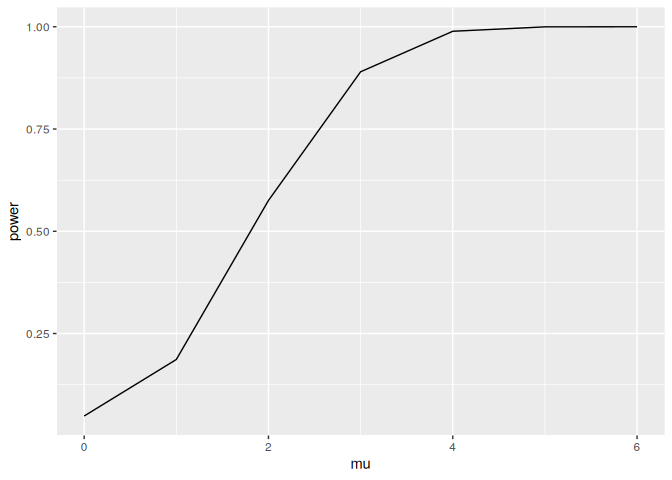
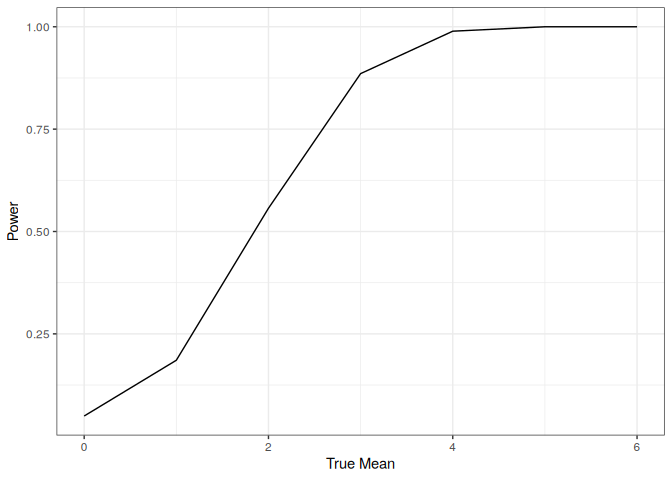
Add descriptions of figures

diff --git a/p8105_hw5_jrc2270.md b/p8105_hw5_jrc2270.md
@@ -56,6 +56,12 @@ prop_unslv_homocides %>%
 
 ## Problem 2
 
+In this longitudinal data, the group receiving the experimental
+treatment seems to have increasing values over the study period, while
+the group control group has values that stay fairly constant. By week 8,
+there is a clear difference between the experimental group and the
+control group.
+
 ``` r
 long <- 
   list.files("data") %>%
@@ -78,6 +84,10 @@ long %>%
 
 ## Problem 3
 
+By running 5000 t-tests each on samples from populations with different
+means, we can see that as effect size increases, power quickly
+approaches 100%.
+
 ``` r
 rnorm_5000 <- function(mu) {
   n = 30
@@ -98,40 +108,28 @@ power_by_mean_df %>%
   group_by(mu) %>%
   summarise(power = sum(p.value <= 0.05)/n()) %>%
   ggplot(mapping = aes(x = mu, y = power)) +
-  geom_line()
+  geom_line() +
+  labs(x = "True Mean", y = "Power") +
+  theme_bw()
 ```
 
 ![](p8105_hw5_jrc2270_files/figure-gfm/unnamed-chunk-3-1.png)<!-- -->
 
+The mean estimate across samples is, of course, similar to the true
+mean. For the samples where the null hypothesis was rejected, the mean
+estimate is close to the true mean for samples with a large effect size
+and for the sample under the null hypothesis. However, the mean estimate
+is slightly higher than the true mean for samples with a small effect
+size. This is because samples with estimates close to the null
+hypothesis have large p-values.
+
 ``` r
 power_by_mean_df %>%
   group_by(mu) %>%
   summarise(avg_mu_hat = mean(estimate)) %>%
   ggplot(mapping = aes(x = mu, y = avg_mu_hat)) +
-  geom_point()
-```
-
-![](p8105_hw5_jrc2270_files/figure-gfm/unnamed-chunk-3-2.png)<!-- -->
-
-``` r
-power_by_mean_df %>%
-  filter(p.value <= 0.5) %>%
-  group_by(mu) %>%
-  summarise(avg_mu_hat = mean(estimate)) %>%
-  ggplot(mapping = aes(x = mu, y = avg_mu_hat)) +
-  geom_point()
-```
-
-![](p8105_hw5_jrc2270_files/figure-gfm/unnamed-chunk-3-3.png)<!-- -->
-
-``` r
-power_by_mean_df %>%
-  group_by(mu) %>%
-  ggplot(mapping = aes(x = as.factor(mu), y = estimate)) +
-  geom_violin() +
-  scale_y_continuous(breaks = seq(floor(min(power_by_mean_df$estimate)),
-                                  ceiling(max(power_by_mean_df$estimate))),
-                     minor_breaks = NULL) +
+  geom_point() +
+  labs(x = "True Mean", y = "Average Estimate") +
   theme_bw()
 ```
 
@@ -141,12 +139,45 @@ power_by_mean_df %>%
 power_by_mean_df %>%
   filter(p.value <= 0.5) %>%
   group_by(mu) %>%
+  summarise(avg_mu_hat = mean(estimate)) %>%
+  ggplot(mapping = aes(x = mu, y = avg_mu_hat)) +
+  geom_point() +
+  labs(x = "True Mean", y = "Average Estimate") +
+  theme_bw()
+```
+
+![](p8105_hw5_jrc2270_files/figure-gfm/unnamed-chunk-4-2.png)<!-- -->
+
+We gain a little more insight by looking at the distribution of
+estimates.
+
+``` r
+power_by_mean_df %>%
+  group_by(mu) %>%
   ggplot(mapping = aes(x = as.factor(mu), y = estimate)) +
   geom_violin() +
   scale_y_continuous(breaks = seq(floor(min(power_by_mean_df$estimate)),
                                   ceiling(max(power_by_mean_df$estimate))),
                      minor_breaks = NULL) +
+  theme_bw() +
+  labs(x = "True Mean", y = "Estimate") +
   theme_bw()
 ```
 
-![](p8105_hw5_jrc2270_files/figure-gfm/unnamed-chunk-4-2.png)<!-- -->
+![](p8105_hw5_jrc2270_files/figure-gfm/unnamed-chunk-5-1.png)<!-- -->
+
+``` r
+power_by_mean_df %>%
+  filter(p.value <= 0.5) %>%
+  group_by(mu) %>%
+  ggplot(mapping = aes(x = as.factor(mu), y = estimate)) +
+  geom_violin() +
+  scale_y_continuous(breaks = seq(floor(min(power_by_mean_df$estimate)),
+                                  ceiling(max(power_by_mean_df$estimate))),
+                     minor_breaks = NULL) +
+  theme_bw() +
+  labs(x = "True Mean", y = "Estimate") +
+  theme_bw()
+```
+
+![](p8105_hw5_jrc2270_files/figure-gfm/unnamed-chunk-5-2.png)<!-- -->

diff --git a/README.md b/README.md
@@ -1,0 +1,1 @@
+p8105_hw5_jrc2270.md
